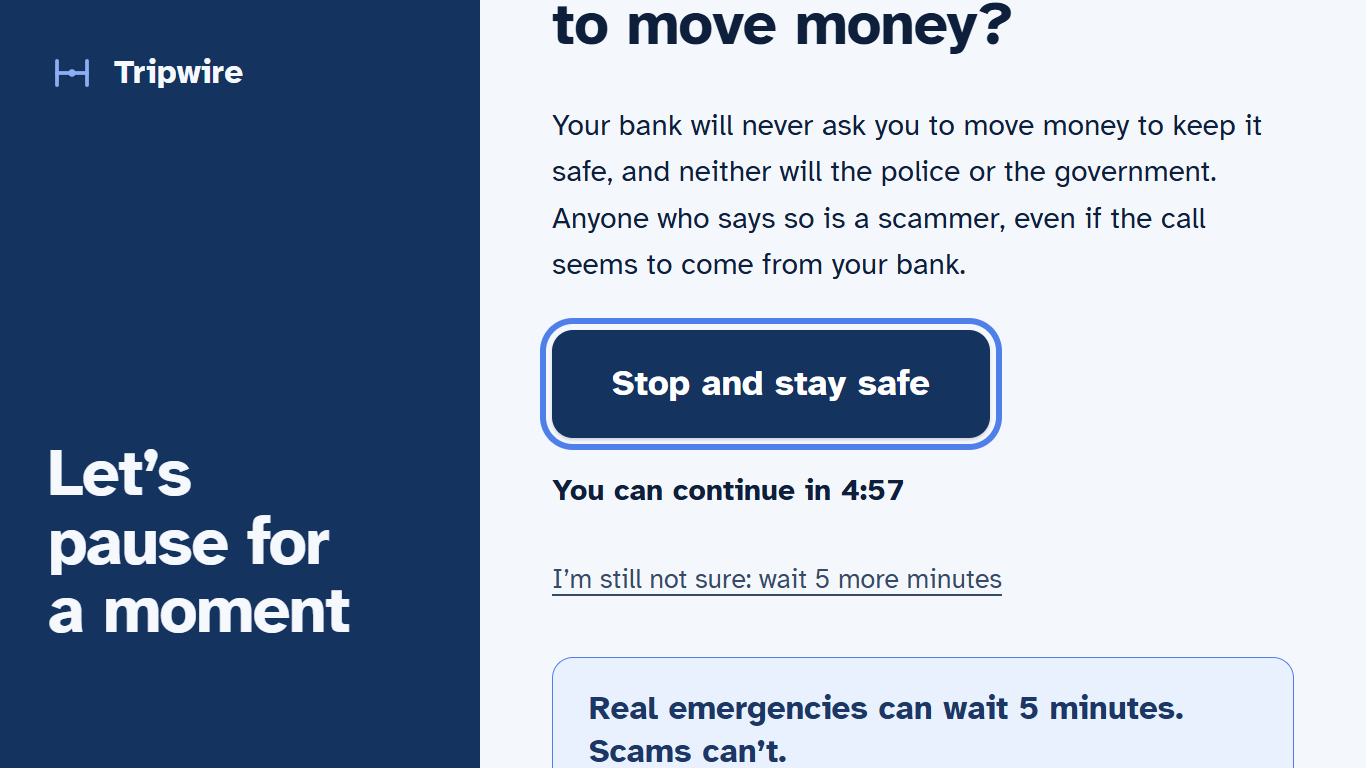
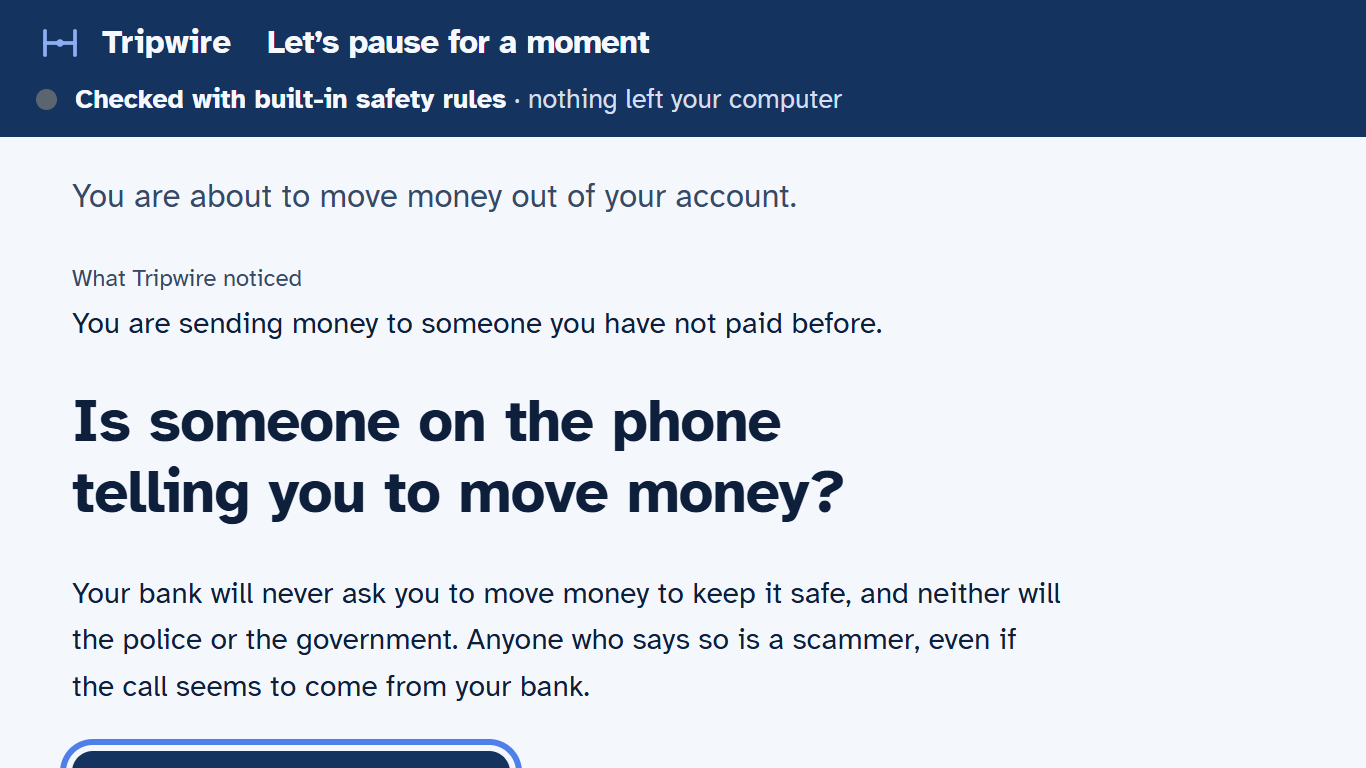
Judge B: at large browser text the pause's side panel becomes a strip on top, so the opening line, the first reason and the question stay on screen

diff --git a/src/ui/tripwire.css b/src/ui/tripwire.css
@@ -1071,3 +1071,31 @@
   .tw :focus-visible { outline: 3px solid Highlight; outline-offset: 3px; }
   .tw .tw-dot { forced-color-adjust: none; }
 }
+
+/* Bigger browser text (textSize.ts adds this class at 1.25x or more): the side panel becomes a short
+   strip on top, so the opening line, the first reason and the question stay on screen. */
+.tw-large-text .tw-split {
+  flex-direction: column;
+  flex-wrap: nowrap;
+}
+.tw-large-text .tw-split__side {
+  flex: 0 0 auto;
+  position: static;
+  height: auto;
+  align-self: stretch;
+  justify-content: flex-start;
+  flex-direction: row;
+  flex-wrap: wrap;
+  align-items: center;
+  gap: 8px 24px;
+  padding: 12px 24px;
+}
+.tw-large-text .tw-split__side .tw-h1--xl {
+  font-size: 22px;
+  line-height: 1.2;
+}
+.tw-large-text .tw-split__main {
+  flex: 1 1 auto;
+  justify-content: flex-start;
+  padding-top: 24px;
+}

diff --git a/src/ui/textSize.ts b/src/ui/textSize.ts
@@ -24,5 +24,7 @@ export function followTextSize(el: HTMLElement): number {
   }
   const scale = Math.round(Math.min(2, Math.max(1, px / 16)) * 100) / 100;
   if (scale > 1) el.style.setProperty('zoom', String(scale), 'important');
+  // At 1.25x and above the two-column pause no longer fits a laptop screen: tripwire.css stacks it.
+  if (scale >= 1.25) el.classList.add('tw-large-text');
   return scale;
 }

diff --git a/README.md b/README.md
@@ -376,7 +376,7 @@ The latest run told people to hang up on one ordinary call: a delivery driver sa
 - Live against the real project (`npm run live`): App Check token, hybrid call, Spanish explanations, pairing, single-use code, family alert, the disconnect refusal and the family page noticing a disconnect, and the bank-transfer hold: a family member connected minutes earlier tried "let it go through" and the live security rules refused it, then "keep it on hold" went through and showed on the pause. Result file: [eval-results/live-checks.json](eval-results/live-checks.json).
 - **App Check refuses robots, including ours.** On 16 Nov the hosted site began rejecting the automated test browser ("App attestation failed" from reCAPTCHA Enterprise), so pairing failed and the hosted demo fell back to built-in rules, with the badge saying so. The hosted demo was checked in an ordinary browser the same day and got its cloud answer. The automated runs of the hosted site now present the project's App Check debug token (read from `.env`, set only inside the test browser, never deployed); `--recaptcha` runs them as a robot. `node scripts/hosted-appcheck.mjs` shows the refusal, and the family page now says the browser could not be confirmed instead of blaming the internet.
 - Hosted demo with no extension (`npm run hosted`): the practice pages are flagged in a plain browser, the phone number on the page is absent from what was sent, the ordinary checkout stays silent, and a phone link clicked before the check has answered is held with a "checking this page" notice. Result file: [eval-results/hosted-demo.json](eval-results/hosted-demo.json).
-- Accessibility: axe-core on every screen in the end-to-end run. WCAG 2.2 A/AA: 0 problems. All text meets AAA contrast. Every screen follows Chrome's own text-size setting (Settings, Appearance, Font size): set to Very large, the pause is drawn 1.5 times bigger and the page's CSS cannot undo it ([src/ui/textSize.ts](src/ui/textSize.ts); [screenshot](docs/screenshots/pause-large-text.png)). Windows high-contrast (forced colors) keeps every button, surface and focus ring visible, and on laptop screens (1366x768) the deep panel narrows so the question, the safe button and the first reason fit above the fold; the first reason shown is the most specific one (a PIN, gift cards, a safe account before "act now").
+- Accessibility: axe-core on every screen in the end-to-end run. WCAG 2.2 A/AA: 0 problems. All text meets AAA contrast. Every screen follows Chrome's own text-size setting (Settings, Appearance, Font size): set to Very large, the pause is drawn 1.5 times bigger, its side panel becomes a strip on top so the opening line, the first reason and the question stay on screen, and the page's CSS cannot undo it ([src/ui/textSize.ts](src/ui/textSize.ts); [screenshot](docs/screenshots/pause-large-text.png)). Windows high-contrast (forced colors) keeps every button, surface and focus ring visible, and on laptop screens (1366x768) the deep panel narrows so the question, the safe button and the first reason fit above the fold; the first reason shown is the most specific one (a PIN, gift cards, a safe account before "act now").
 - Languages: every screen is in English, Spanish and French, following the browser. The redactor removes names after Spanish and French greetings and titles too ("Hola Rosario", "Chère Madame Bernadette Lefèvre"; shared fixtures, both redactors). Model-written reasons were run live in Spanish and French on the device (nothing sent) and Spanish through the cloud.
 - **The built extension with Gemini Nano, by automation** (`node scripts/extension-nano.mjs --corpus`): Chrome no longer takes `--load-extension`, so the script loads the built extension over the DevTools protocol, headless. The offscreen document found the model, the practice bank page was paused with "Checked on your device · nothing left your computer", the ordinary shop page stayed silent, and the corpus ran 25/25 with 0 false alarms (34 of 50 decided on the device). Result file: [eval-results/extension-on-device.json](eval-results/extension-on-device.json). It was also checked by hand in desktop Chrome 157 with Wi-Fi off.
 
